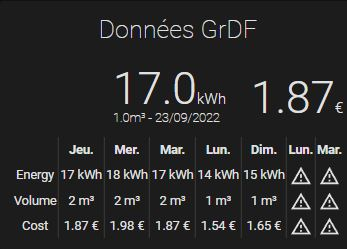
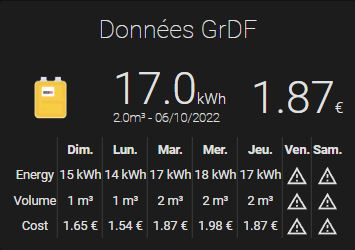
Add Gazpar card screenshot

diff --git a/dist/gazpar-card.js b/dist/gazpar-card.js
@@ -87,7 +87,7 @@ class GazparCard extends LitElement {
               ${this.config.showIcon
                 ? html`
                   <div class="icon-block">
-                    <span class="gazpar-icon bigger" style="background: none, url(https://github.com/ssenart/lovelace-gazpar-card/blob/main/dist/gazpar-icon.png) no-repeat; background-size: contain;"></span>
+                    <span class="gazpar-icon bigger" style="background: none, url(/local/gazpar-card/dist/gazpar-icon.png) no-repeat; background-size: contain;"></span>
                   </div>`
                 : html `` 
               }
